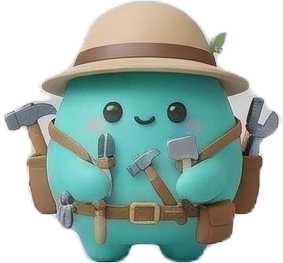
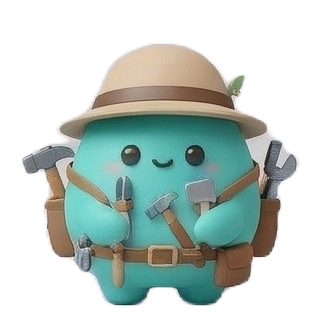
fix: 수랑이 스프라이트 정렬 보정

diff --git a/apps/web/src/components/CharacterArt.tsx b/apps/web/src/components/CharacterArt.tsx
@@ -18,7 +18,7 @@ export function CharacterArt({ skinId, size, alt, className }: CharacterArtProps
         className={className}
         src={art.imagePath}
         alt={alt}
-        style={{ width: size, height: size, objectFit: "contain" }}
+        style={{ width: size, height: size, objectFit: "contain", display: "block", flex: "0 0 auto" }}
       />
     );
   }
